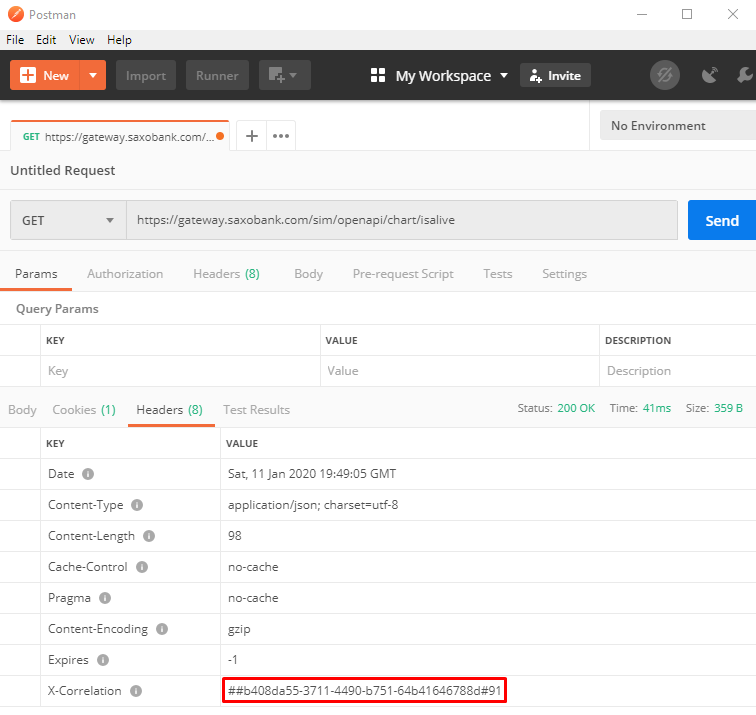
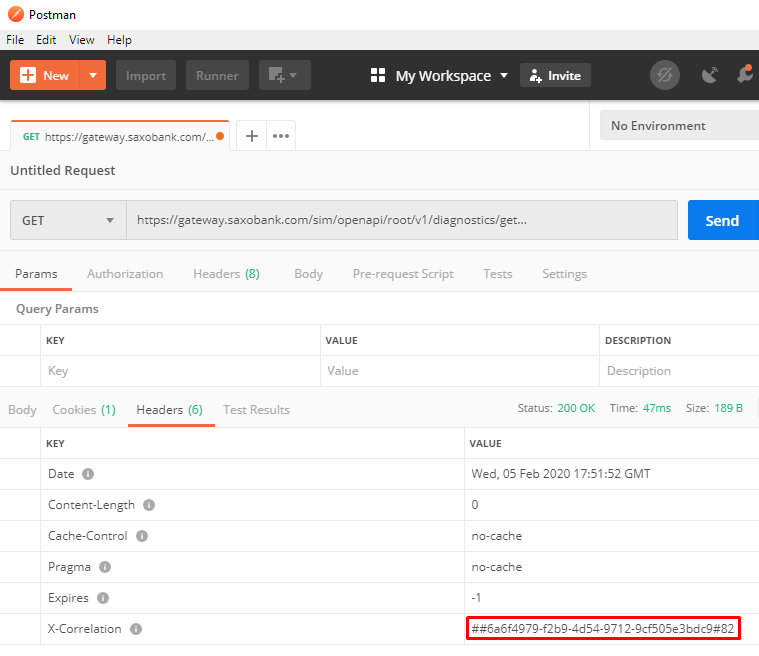
review existing docs with fresh eyes

diff --git a/docs/tools.md b/docs/tools.md
@@ -1,29 +1,32 @@
 # Useful Tools
 
-To optimize your development efforts while working with Saxo's OpenAPI, the below tools are recommended for any developer looking to experiment. These tools range from 'get to know the platform'-apps to fully-fledged debugging environments. You are invited to use the tools as you progress through the articles on this website, as they provide an excellent way to try the features of the OpenAPI yourself.
+!!! abstract
+    Developing against the OpenAPI is made easy with a selection of tools that provide useful features for anyone looking to get started quickly.
+
+To optimize your development efforts while working with Saxo's OpenAPI, the below tools are recommended for any developer. These tools range from 'get to know the platform'-apps to fully-fledged debugging environments. You are invited to use these tools as you progress through the articles on this website, as they provide an excellent way to try the features of the OpenAPI yourself while you learn about them.
 
 ## Tools Provided by Saxo
 
 ### [The Developer Portal](https://developer.saxo)
 
-This is the go-to resource if you are starting out on the OpenAPI. [Create a developer account](https://www.developer.saxo/accounts/sim/signup) on the portal to fully leverage the features it provides (see below). This account lives in Saxo's Simulation (or 'Demo') environment and is pre-configured to be used as OpenAPI user. You can log into [SaxoTraderGO](https://www.saxotrader.com/sim/login/) or [SaxoTraderPRO](https://www.home.saxo/platforms/saxotraderpro) with this account. It is generally recommended to check these platforms out if you haven't seen them already - they are built on top of the OpenAPI infrastructure (checking out network traffic from these apps can tell you a lot about appropriate OpenAPI usage).
+This is the go-to resource if you are starting out on the OpenAPI. [Create a developer account](https://www.developer.saxo/accounts/sim/signup) on the portal to fully leverage the features it provides (see below). This account lives in Saxo's Simulation (or 'Demo') environment and is pre-configured to be used as OpenAPI user. You can log into [SaxoTraderGO](https://www.saxotrader.com/sim/login/) or [SaxoTraderPRO](https://www.home.saxo/platforms/saxotraderpro) with this account to see what a 'standard' Saxo configuration looks like. It is generally recommended to check these platforms out if you haven't seen them already - they are built entirely on top of the OpenAPI infrastructure (observing network traffic from these apps can tell you a lot about appropriate OpenAPI usage).
 
-![The Developer Portal](img/devportal1.png){: style="height:350px;width:auto"}
-
-!!! info
-    The below tools require a developer account on the Developer Portal.
+![The Saxo Bank Developer Portal](img/devportal1.png){: style="height:350px;width:auto"}
 
 ### [The Tutorial](https://www.developer.saxo/openapi/tutorial)
 
-The Tutorial is a simple 3-minute click-through guide on the Developer Portal that showcases a couple of basic API request/response examples. It provides an excellent introduction into the many aspects of the OpenAPI and is generally recommended as a good 'get to know the API'-tool.
+!!! info
+    The Tutorial and other Developer Portal tools discussed below require an account on the portal before they can be used. See the steps outlines above to create you free account.
 
-![The Tutorial](img/devportal2.png){: style="height:350px;width:auto"}
+The Tutorial is a simple 3-minute click-through guide on the Developer Portal that showcases a couple of basic API request/response examples. It provides an excellent introduction into core aspects of the OpenAPI and is generally recommended as a good 'get to know the API'-tool.
+
+![The Saxo Bank OpenAPI Tutorial](img/devportal2.png){: style="height:350px;width:auto"}
 
 ### [The OpenAPI Explorer](https://www.developer.saxo/openapi/explorer)
 
 Now that you have acquired a basic understanding of the OpenAPI, let's build some requests ourselves! The Explorer is very similar to tools such as Postman (see below) and lets you create your own requests directly on the portal. It is convenient for on-the-fly debugging and trying out certain endpoints to 'get a feel' for how they behave before implementing them into your own application.
 
-![The OpenAPI Explorer](img/devportal3.png){: style="height:350px;width:auto"}
+![The Saxo Bank OpenAPI Explorer](img/devportal3.png){: style="height:350px;width:auto"}
 
 ### [24-Hour Tokens](https://www.developer.saxo/openapi/token)
 
@@ -33,7 +36,7 @@ At this point, you probably want to start calling the OpenAPI from within your o
 
 You can register an application in Saxo's SIM environment on the above link and obtain your own `AppKey` and `AppSecret`, which can be used to request access and refresh tokens through [Saxo's standard OAuth implementation]. This is considered the final step in your journey towards a 'real-life' app.
 
-![Application Management](img/devportal4.png){: style="height:350px;width:auto"}
+![Saxo Bank OpenAPI Application Management](img/devportal4.png){: style="height:350px;width:auto"}
 
 ## Third-Party Tools
 
@@ -45,4 +48,4 @@ An open-source API debugging app that allows the user to conveniently test any (
 
 ### [Fiddler](https://www.telerik.com/fiddler)
 
-A comprehensive web debugging proxy that allows the user to monitor their app's behavior and catch failing API calls in real-time. Especially useful when your app starts to scale out and sends numerous requests to the OpenAPI (asynchronously). Strongly recommended in case you run into (potential) bugs as it records valuable information that the Saxo team needs to provide efficient support (see next section).
+A comprehensive web debugging proxy that allows the user to monitor their app's behavior and catch failing API calls in real-time. Especially useful when your app starts to scale out and sends numerous requests to the OpenAPI (asynchronously). Strongly recommended in case you run into (potential) bugs or issues as it records valuable information that the Saxo team needs to provide efficient support (see next section).

diff --git a/docs/index.md b/docs/index.md
@@ -4,11 +4,11 @@ This website contains reference material for developers working with Saxo's Open
 
 **Saxo's OpenAPI** (henceforth referred to as _the OpenAPI_ or simply _API_) is the gateway to Saxo's trading infrastructure, and is available for individual clients, institutional partners, and third parties. The aim of this guide is to make it as easy as possible for developers of any kind to interact successfully with the OpenAPI. Because of the inherent complexities of a financial-services API and the broad range of use-cases and client types it supports, the learning material on this website is broken down into 4 distinct sections:
 
-1. **[The Basics](basics/index.md)** - This collection of articles covers **high-level fundamental concepts** of the OpenAPI that programmers of any kind are expected to understand and be able implement. You can safely assume that the ideas explained in this section will apply to your specific use-case. This section is divided into two main strands:
+1. **[The Basics](basics/index.md)** - This collection of articles covers **high-level fundamental concepts** of the OpenAPI that programmers of any kind are expected to understand and be able implement. You can safely assume that (the majority of) the ideas explained in this section will apply to your use-case. This section is divided into two main strands:
     - [Core Business Concepts](basics/core-business-concepts/index.md), which includes articles on the basic ideas behind the API and the mechanics that are at play, such as: [add examples here]
-    - [Fundamental Programming Concepts](basics/fundamental-programming-concepts/index.md), which provide guidance on how to build the foundation of your application 'the right way', covering aspects such as: [add examples here]
-2. **[Individual Developers](individual/index.md)** - If you are a **direct client of Saxo Bank** (or any of its local subsidiaries), you will find additional useful information in this section. It covers concepts such as [how do I configure my personal trading app] and [can I use certificate-based authentication?]. This section is updated with new articles for frequently-asked topics that apply to individual client developers.
-3. **[Institutional Developers](institutional/index.md)** - This section includes articles specifically for **developers of Saxo Bank's partners**, and focusses on topics such as client management within Saxo's hierarchy structure, signing up new clients through the CRM API, and client reporting. If you are a developer for one of Saxo's partners, you can find useful information here.
-4. **[3rd-Party App Developers](third-party/index.md)** - Articles in this collection apply to developers that are looking to integrate Saxo trading functionality and (market) data into **proprietary applications**, and distribute their creation to Saxo clients. This section provides details on how to configure your app's interactions with the OpenAPI, ensuring the optimal 'Saxo Experience' for clients when they log into your platform.
+    - [Fundamental Programming Concepts](basics/fundamental-programming-concepts/index.md), which provide guidance on how to build the technical foundation of your application 'the right way', covering aspects such as: [add examples here]
+2. **[Individual Developers](individual/index.md)** - If you are a **direct client of Saxo Bank** (or any of its local subsidiaries), you will find additional information tailored to your use case in this section. It covers concepts such as [how do I configure my personal trading app] and [can I use certificate-based authentication?]. This section is updated with new articles for frequently-asked topics that apply to individual client developers.
+3. **[Institutional Developers](institutional/index.md)** - This section includes articles specifically for **developers of Saxo Bank's partners**, and focusses on topics such as client management within Saxo's hierarchy structure, signing up new clients through the CRM API, and client reporting. If you are a developer for one of Saxo's partners, you can find relevant information here.
+4. **[3rd-Party App Developers](third-party/index.md)** - Articles in this collection apply to developers that are looking to integrate with Saxo trading functionality and (market) data on their **proprietary applications**, and distribute their product to Saxo clients. This section provides details on how to configure your app's interactions with the OpenAPI, ensuring the optimal 'Saxo Experience' for clients when they log into your platform.
 
-Before diving into the above articles however, click the `Next` button on the bottom right of this page to continue to the user manual so you can make sure you leverage all the available information on this website to its full extend.
+Before diving into the above articles however, click the `Next` button on the bottom right of this page to continue to the user manual of the documentation provided on this web site so you can ensure you leverage all the available information to its fullest extend.

diff --git a/docs/support.md b/docs/support.md
@@ -12,16 +12,16 @@ Although it is of course possible that the difficulties you are facing are cause
 
 ## Step 2: Use the Search & Check the FAQ
 
-The search tool at the top of this window is a quick and powerful way to **scan every bit of information** on this website. Make sure to use different combinations of keywords if you are not able to find the information you are looking for and [check the FAQ](basics/faq/index.md) to see if your specific question has come up before. FAQ articles are added progessively for every (unique) OpenAPI question.
+The search tool at the top of this window is a quick and powerful way to **scan every bit of information** on this website. Make sure to use different combinations of keywords if you are not able to find the information you are looking for and [check the FAQ](basics/faq/index.md) to see if your specific question has come up before. FAQ articles are added progressively for every question received by OpenAPI support.
 
 ## Step 3: Email OpenAPI Support
 
-If all of the above did not help you find an answer, the support would be glad to receive a message on [openapisupport@saxobank.com](mailto:openapisupport@saxobank.com). Please bear in mind you can **help us help you** by including *as many details as possible* in your inquiry. The OpenAPI receives millions of requests every day, so it is virtually impossible to even begin to provide support if all we have is an email address and a message such as "it doesn't work".
+If all of the above did not help you find an answer, the support team would be glad to receive a message on [openapisupport@saxobank.com](mailto:openapisupport@saxobank.com). Please bear in mind you can **help us help you** by including *as many details as possible* in your inquiry. The OpenAPI receives millions of requests every day, so it is virtually impossible to even begin to provide support if all we have is an email address and a message such as "it doesn't work".
 
 Here's how to **request support like a pro**:
 
 1. Include **a clear description** of the issue/bug/problem/obstacle that you are facing along the lines of:
-> "I am trying to achieve [ X ] so I sent a request to the OpenAPI like [ Y ] and I expected to receive [ Z ] but instead I got [ A ]."
+> "I am trying to achieve [ *business requirement* ] so I sent a request to the OpenAPI such as this [ *request example* ] and I expected to receive [ *desired outcome* ] but instead I got [ *unexpected behavior* ]."
 2. Add the **details of the request** that results in the error. If you followed [Step 1](#step-1-basic-diagnosis), you will have this at hand already. Make sure to include:
     - The URL (including parameters), request method, and (if applicable) the request body
     - Any headers or cookies that are sent with the request
@@ -38,8 +38,8 @@ Here's how to **request support like a pro**:
 
 ### About the `X-Correlation` Header
 
-Imagine you are about to send a support request and you can only include **1 piece of information**, what should it be? Answer: the `X-Correlation` header. The OpenAPI sends out correlation headers with *every response*, which encode important contextual details regarding your requests and allows for **direct log queries**. It goes without saying that this is by far the most useful info!
+Imagine you are about to send a support request and you can only include **1 piece of information**, what should it be? Answer: the `X-Correlation` header. The OpenAPI sends out correlation headers with *every response*, which encode important contextual details regarding your requests and allows for **direct log queries**. It goes without saying that this is by far the most useful info our team could receive from you!
 
 If you've tried the request demonstrated in [the code block on one of the earlier pages](usage.md#sample-code), you may have noticed that the `X-Correlation` header was indeed included in the response headers from the OpenAPI, as shown in the below screenshot from Postman:
 
-![Postman Screenshot](/img/postman1.png)
+![Postman Example Screenshot](/img/postman1.png)

diff --git a/docs/usage.md b/docs/usage.md
@@ -17,18 +17,18 @@ Every article is pre-faced by an **Abstract** providing a succinct summary of th
 
 ## Sample Code
 
-Where possible, **concise, stand-alone code samples** are provided in various programming languages to illustrate concepts under discussion with real-life code (see below). This code is meant to be testable on your end, but do bear in mind that it should only be used for educational purposes. Please administer proper due diligence if you are planning to use any of this code in production. No guarantees are offered for the correctness of the included samples (see [the Disclaimer](disclaimer.md)).
+Where possible, **concise, stand-alone code samples** are provided in various programming languages to illustrate concepts under discussion with real-life code (see below). This code is meant to be testable and you are welcome to run it, but do bear in mind that it should *only* be used for educational purposes. Please administer proper due diligence if you are planning to use any of the provided code in production. No guarantees are offered for the correctness of the included samples (see [the Disclaimer](disclaimer.md)).
 
-If required, certain lines in the code blocks will be **highlighted** in case they require special attention such as adding an access token, or if the line is particularly important in the context of the article. When copying sample code, please double-check the highlighted lines because it could be the reason your code won't run directly 'out of the box'. If you find an error in the sample code, feel free to send [our support](support.md) a message!
+If required, certain lines in the code blocks will be **highlighted** in case they require special attention such as adding an access token, or if the line is particularly important in the context of the article. When copying sample code, please double-check the highlighted lines because it could be the reason your code won't run 'out of the box'. If you find an error in the sample code, feel free to send [our support](support.md) a message!
 
 The OpenAPI is a RESTful Web API based entirely on HTTP methods, so all code blocks will typically include a generic, language-agnostic HTTP sample.
 
-The below sample code demonstrates a simple `GET` request to the `/isalive` endpoint of the Chart service group, which constitutes a basic diagnostics check to ensure endpoints included in the `/openapi/chart/` collection are up-and-running. For demonstration purposes, each code sample highlights the location in the code where the `Host` header is defined:
+The below sample code demonstrates a simple request to the `/root/v1/diagnostics/get` endpoint, which constitutes a basic check to verify that `GET` requests are working fine in the client application, and the OpenAPI correctly received your request. For illustration purposes, each code sample highlights the location in the code where the `Host` header is defined:
 
 ```HTTP tab="HTTP" hl_lines="2"
-GET /sim/openapi/chart/isalive HTTP/1.1
+GET /sim/openapi/root/v1/diagnostics/get HTTP/1.1
 Host: gateway.saxobank.com
-Content-Type: text/plain; charset=UTF-8
+Accept: */*
 Accept-Encoding: gzip, deflate
 Connection: Keep-Alive
 ```
@@ -37,12 +37,24 @@ Connection: Keep-Alive
 import requests
 
 r = request.request(
-    url='https://gateway.saxobank.com/sim/openapi/chart/isalive'
+    url='/sim/openapi/root/v1/diagnostics/get'
     headers={
         'Host': 'gateway.saxobank.com'
-        'Content-Type': 'text/plain; charset=UTF-8'
+        'Accept': '*/*'
         'Accept-Encoding': 'gzip, deflate'
         'Connection': 'Keep-Alive'
     }
 )
+```
+
+This request results in the following HTTP 200 OK response, indicating that the diagnostics check passed successfully:
+
+```HTTP
+HTTP/1.1 200 OK
+Date: Wed, 05 Feb 2020 17:51:52 GMT
+Content-Length: 0
+Cache-Control: no-cache
+Pragma: no-cache
+Expires: -1
+X-Correlation: ##6a6f4979-f2b9-4d54-9712-9cf505e3bdc9#82
 ```
